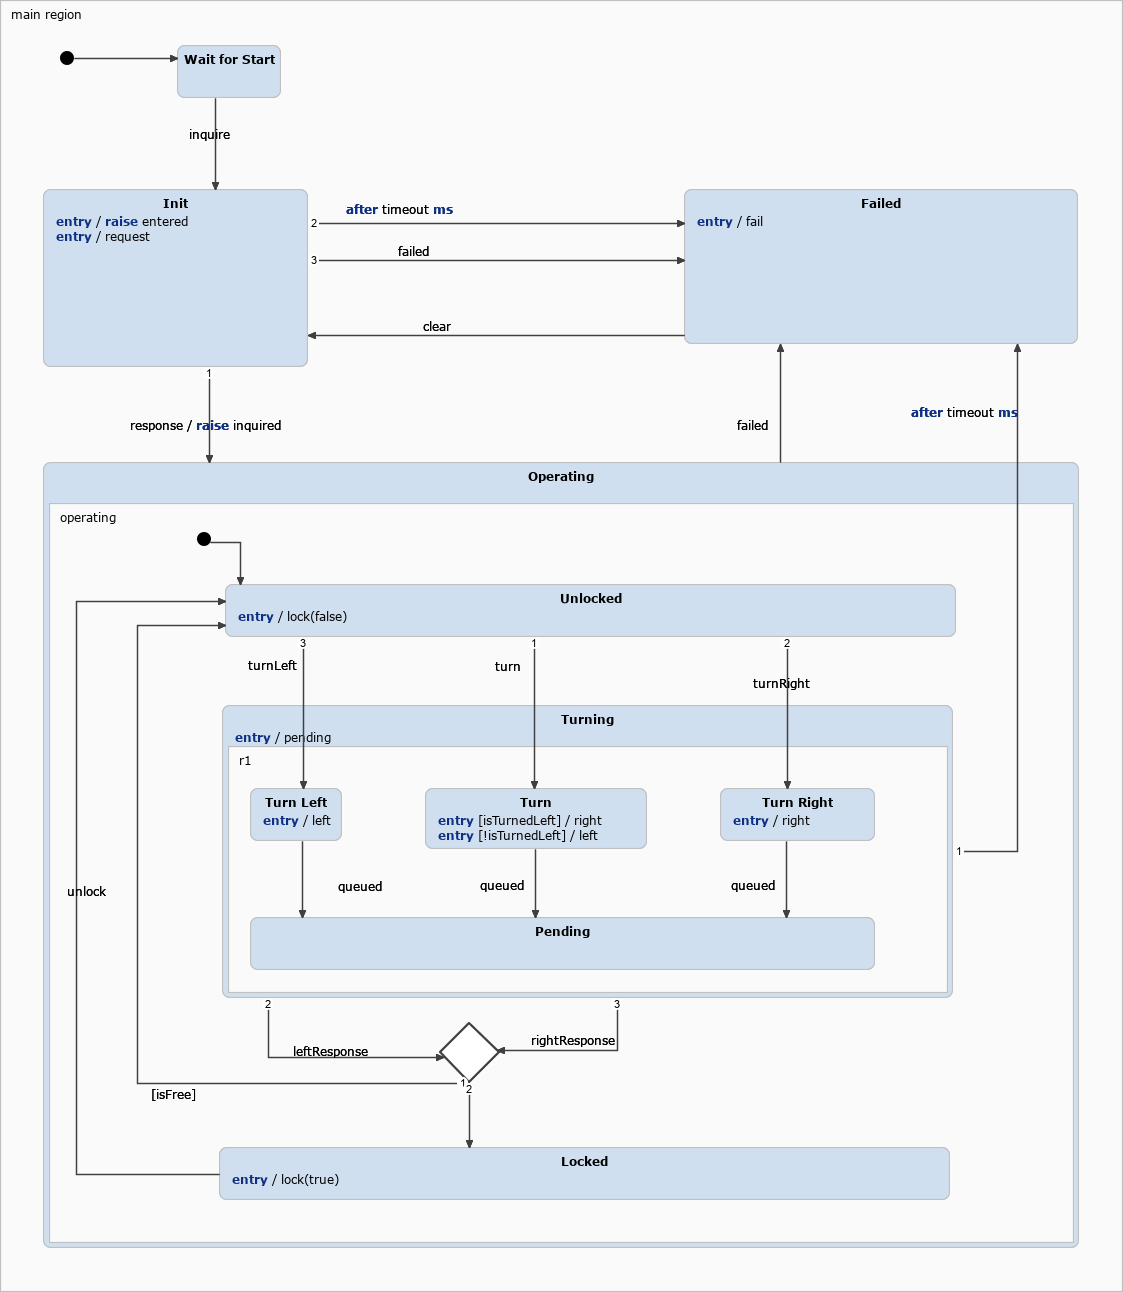
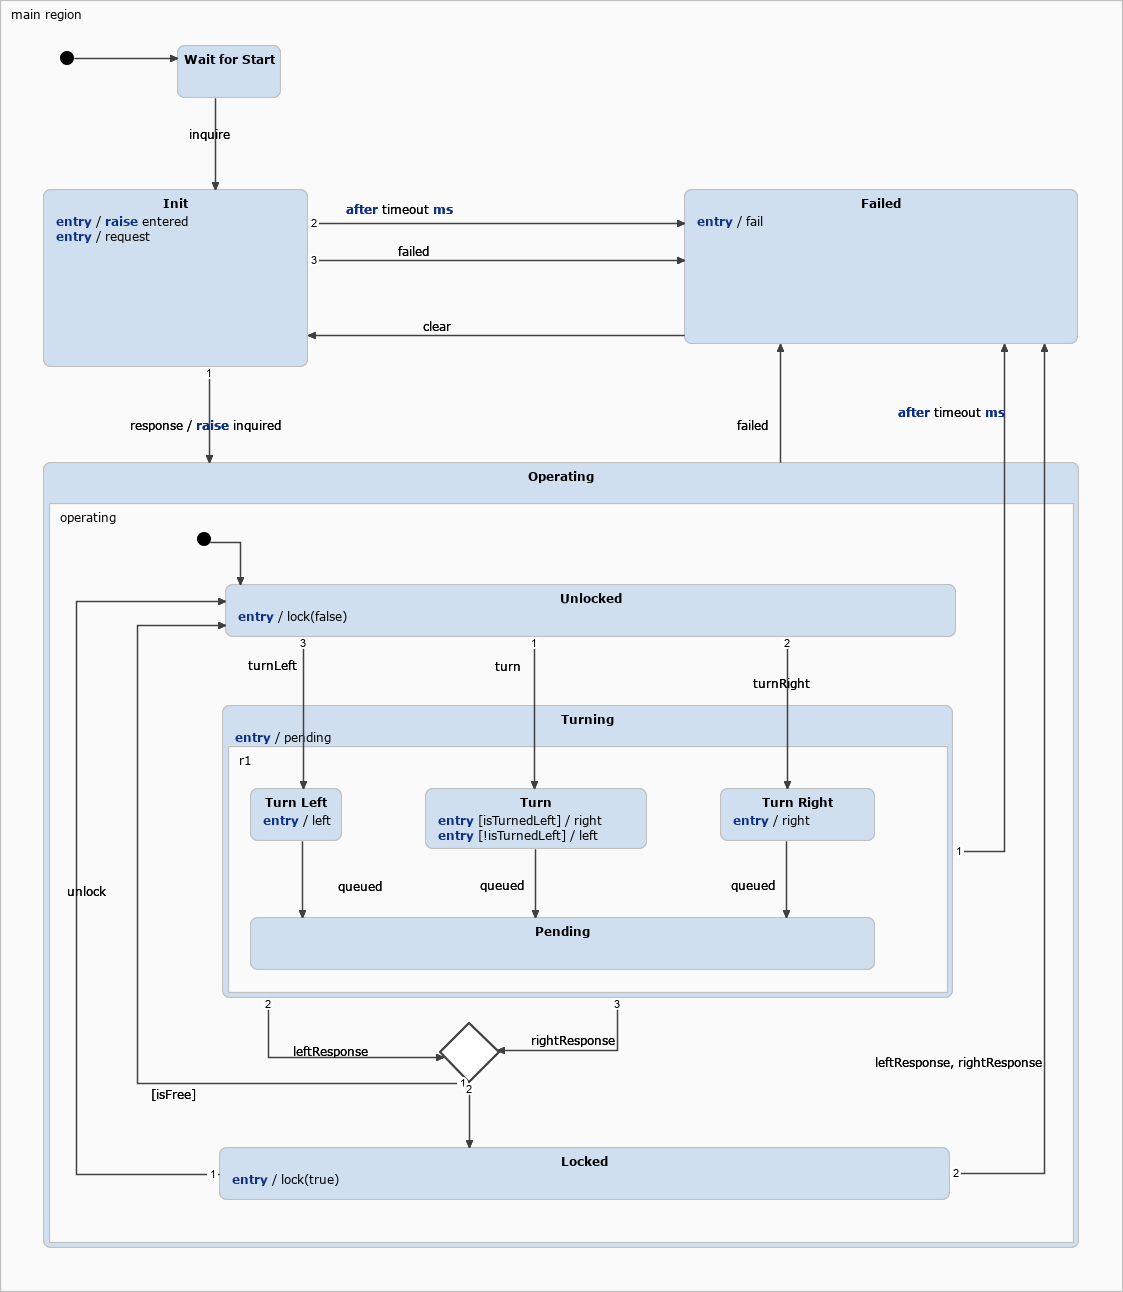
Failed state if locked switch is turned.

Changed region(s): [[0.8103, 0.2786, 0.935, 0.6811], [0.7792, 0.805, 0.935, 0.8359]]

diff --git a/statecharts/SwitchStatechart.cpp b/statecharts/SwitchStatechart.cpp
@@ -936,6 +936,16 @@ namespace mrw
 					main_region_Operating_react(0);
 					transitioned_after = 0;
 				}
+				else
+				{
+					if ((leftResponse_raised) || (rightResponse_raised))
+					{
+						exseq_main_region_Operating();
+						enseq_main_region_Failed_default();
+						react(0);
+						transitioned_after = 0;
+					}
+				}
 			}
 			/* If no transition was taken then execute local reactions */
 			if ((transitioned_after) == (transitioned_before))
